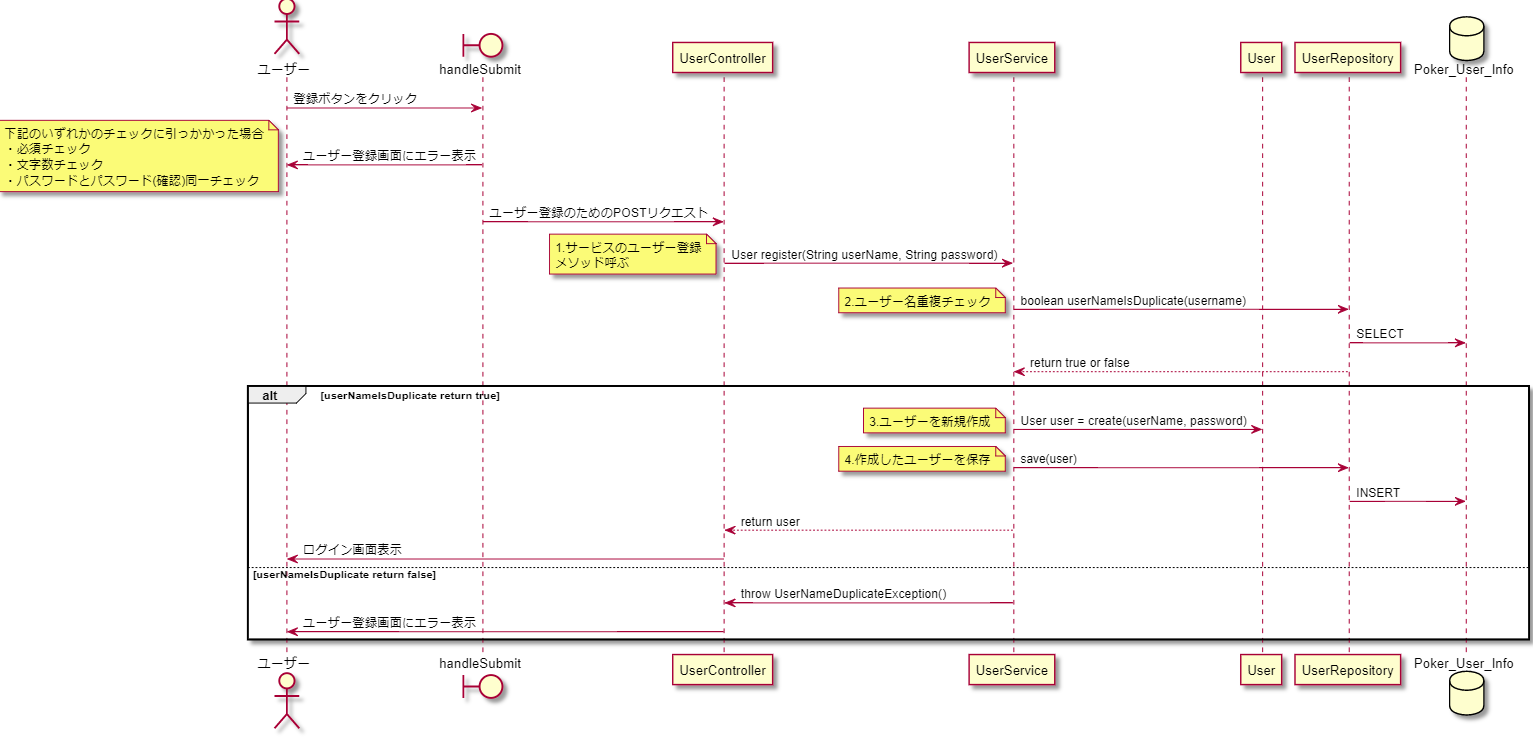
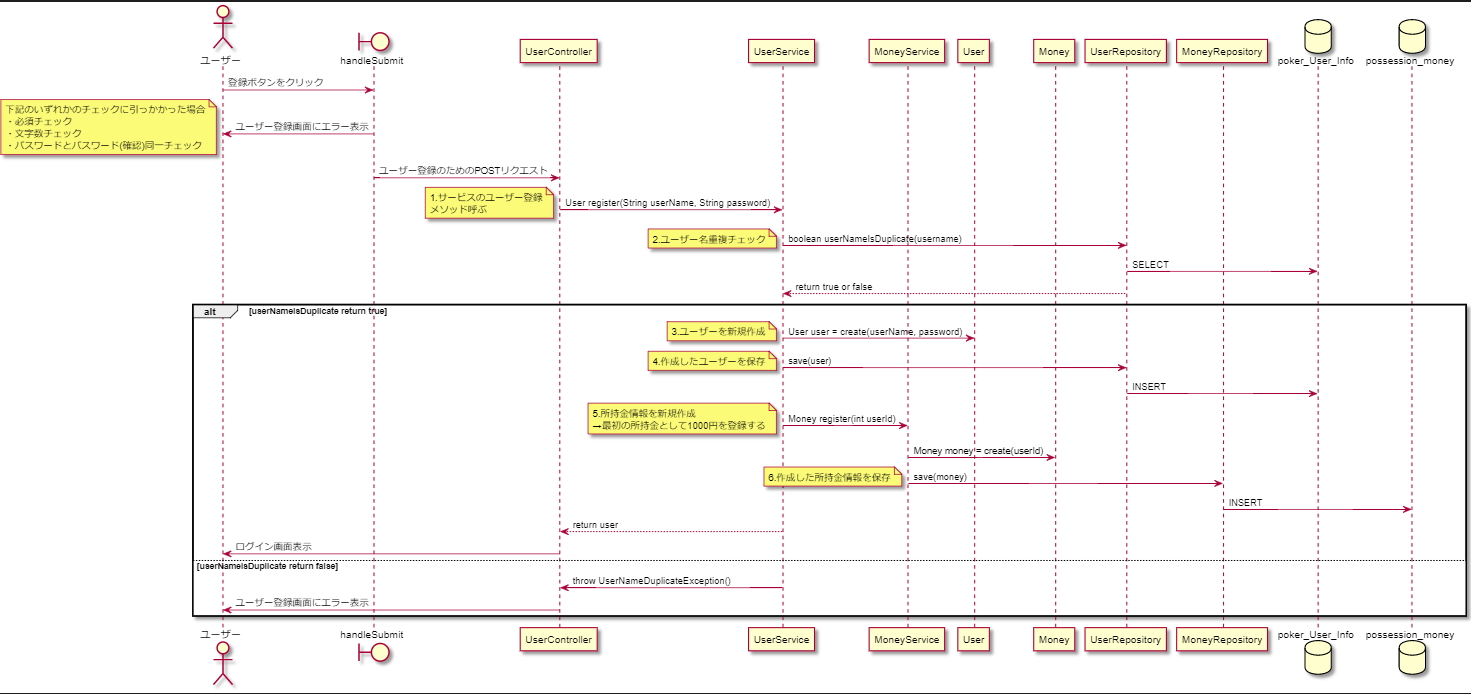
ユーザー登録のユースケース・ロバストネス図・シーケンス図を作成

diff --git a/docs/基本設計/ユースケース/ユーザー登録する.md b/docs/基本設計/ユースケース/ユーザー登録する.md
@@ -4,6 +4,7 @@
   - ユーザーは、ユーザー名・パスワード・パスワード(確認)を入力して、登録ボタンを押す。
   - システムは、入力情報に対して、必須チェック・文字数チェック・パスワードとパスワード(確認)同一チェック・ユーザー名重複チェックを実施する。
   - システムは、ユーザーを作成して、保存する。
+  - システムは、所持金情報を作成して、保存する。
   - システムは、ログイン画面に遷移する。
 
 - 代替コース
